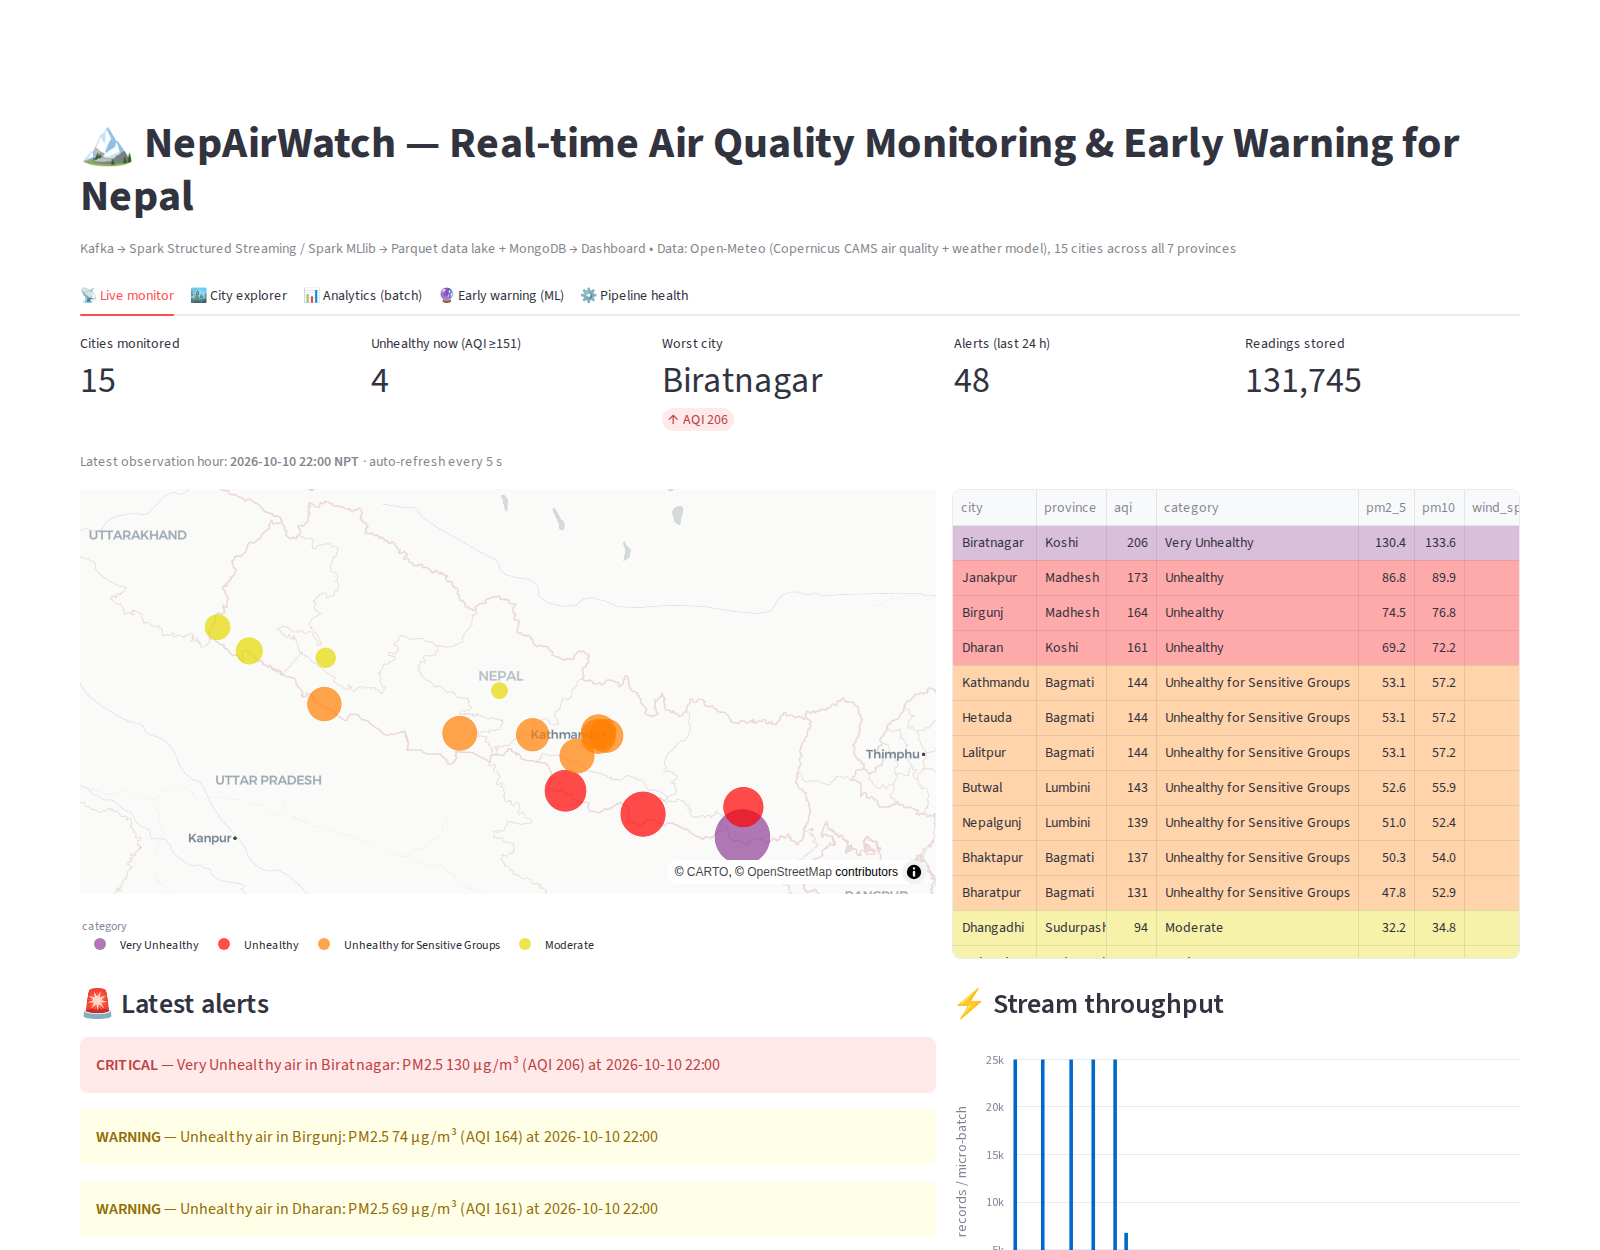
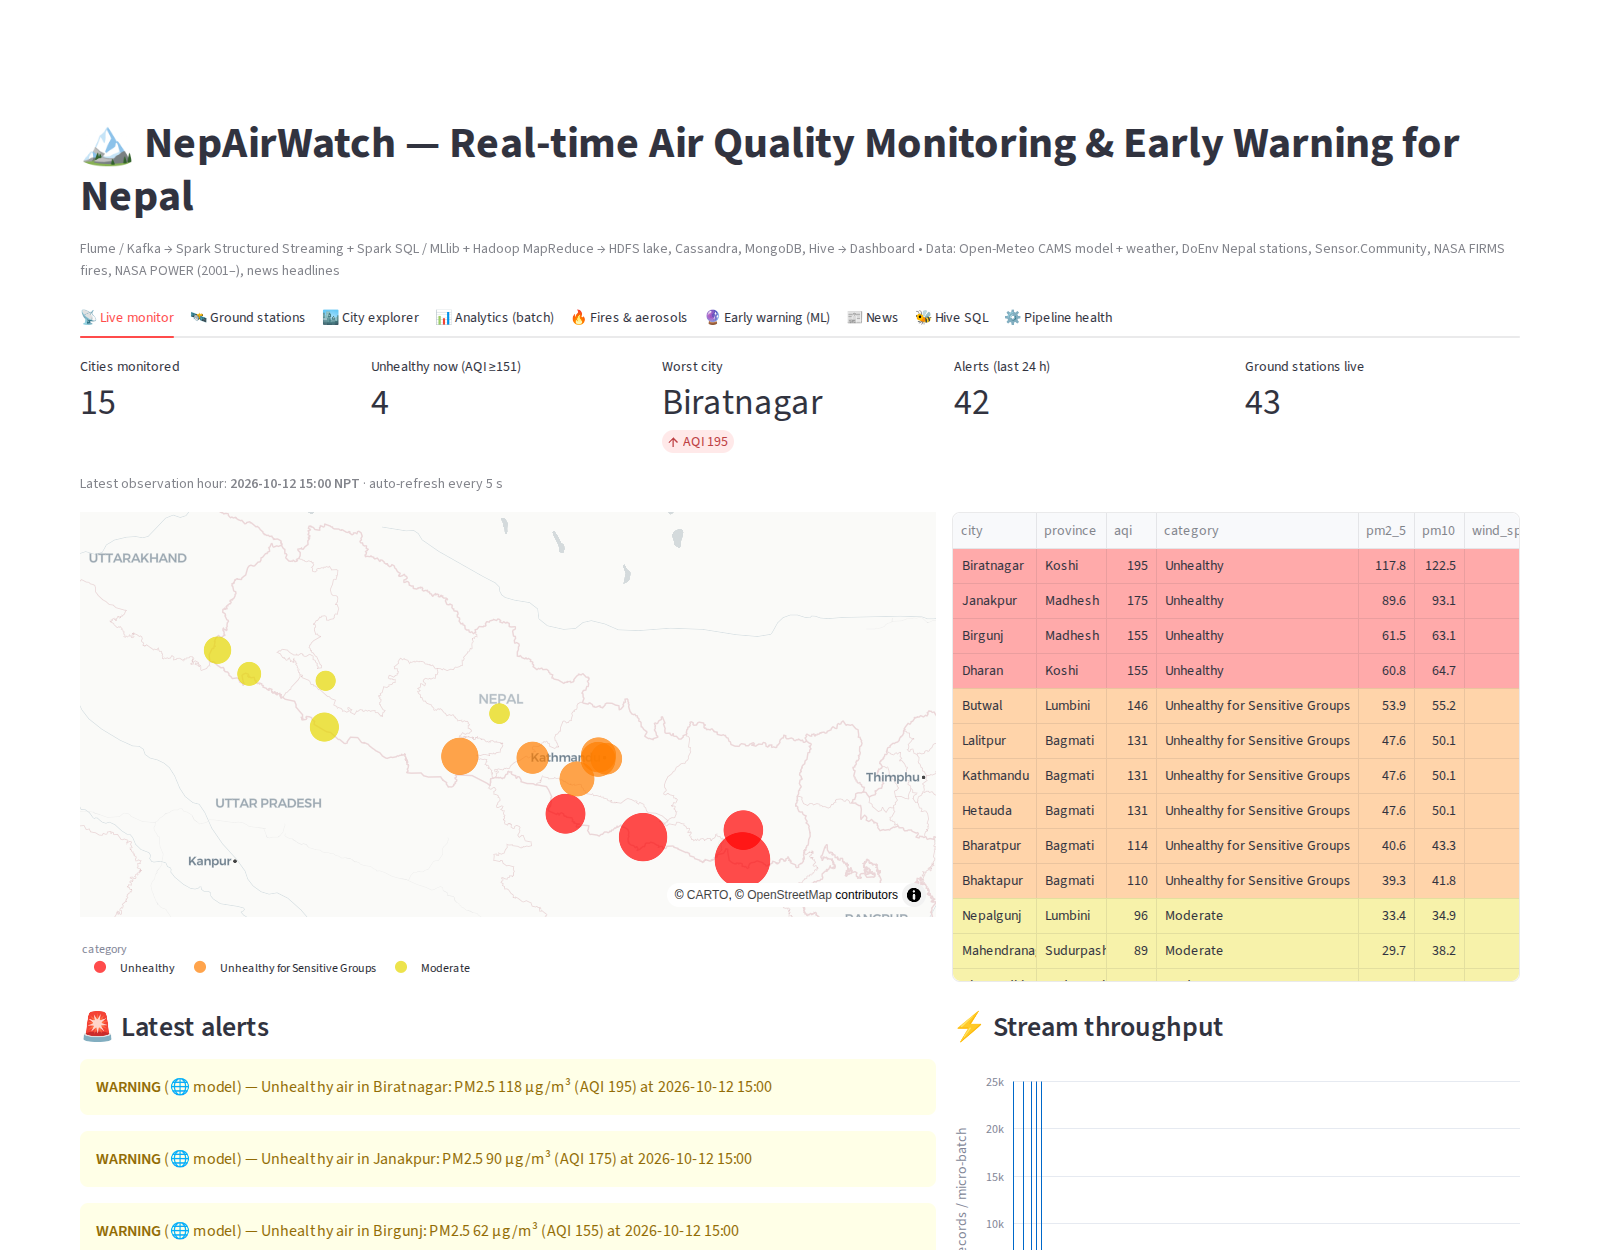
docs: capture screenshots of all nine dashboard tabs
Use software WebGL so the Plotly maps render in headless Chromium, and add a
viewport-only overview shot for the deck.

diff --git a/scripts/screenshots.py b/scripts/screenshots.py
@@ -3,13 +3,16 @@ import sys
 from playwright.sync_api import sync_playwright
 
 OUT = sys.argv[1] if len(sys.argv) > 1 else "docs/screenshots"
-TABS = ["Live monitor", "City explorer", "Analytics (batch)", "Early warning (ML)", "Pipeline health"]
+TABS = ["Live monitor", "Ground stations", "City explorer", "Analytics (batch)", "Fires & aerosols",
+        "Early warning (ML)", "News", "Hive SQL", "Pipeline health"]
 
 with sync_playwright() as p:
-    b = p.chromium.launch()
+    # software WebGL, otherwise the Plotly maps render blank in headless Chromium
+    b = p.chromium.launch(args=["--use-gl=angle", "--use-angle=swiftshader", "--enable-unsafe-swiftshader"])
     pg = b.new_page(viewport={"width": 1600, "height": 1250})
     pg.goto("http://localhost:8501", wait_until="networkidle")
-    pg.wait_for_timeout(9000)
+    pg.wait_for_timeout(15000)
+    pg.screenshot(path=f"{OUT}/0_overview.png")  # viewport only: used on the deck's demo slide
     for i, t in enumerate(TABS):
         pg.get_by_role("tab", name=t, exact=False).click()
         pg.wait_for_timeout(7000)
